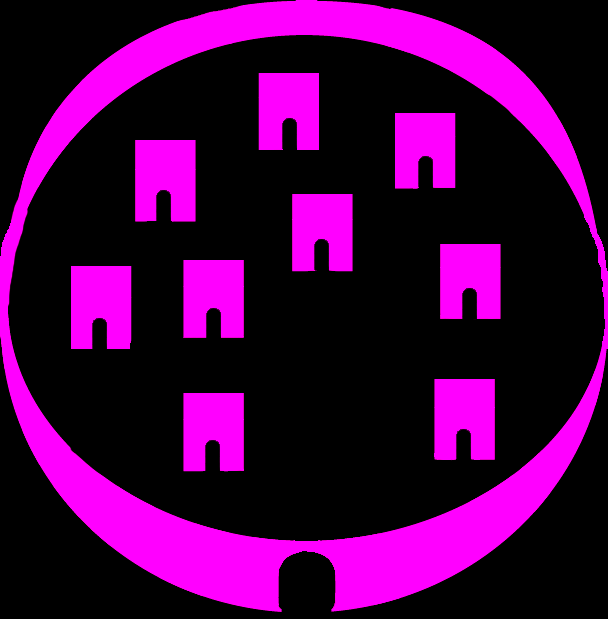
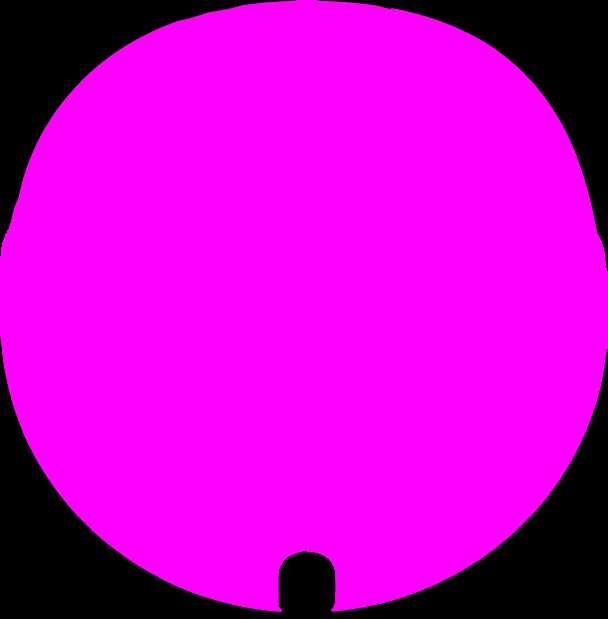
Nuevo prop Ciudad
+ Está presente en el new-world, en uno de los continentes. Es para
  probar una forma en la que se puede solventar el issue #102. No lo
  cierro todavía porque me parece que debería haber otras formas
  adicionales.
* Había subido los sprites de la ciudad y sus colisiones anteriormente
  sin darme cuenta. La actualización de la imagen de colisiones es
  porque el layer del héroe hace que no quede bien entrar en la ciudad.
  Además de que debería "entrar" mediante el botón de acción.
  SpriteSalida es temporalmente "accionable" a efectos de este cambio.
+ La salida en new-world.stage.json está vacía (no tine entrada) porque
  aún no hay un mapa destino para esa salida (que sería el interior de
  la ciudad).
* Nueva imagen de chunk grass-tile-monticulo_alto.png. Es similar al
  montículo que ya hay en otra parte del new-world, pero esté está
  al lado de la ciudad (for no reason) y es para probar cómo queda.

diff --git a/engine/scenery/props.py b/engine/scenery/props.py
@@ -1,10 +1,11 @@
 from engine.globs import Prop_Group, ModData, Tiempo, Tagged_Items, Mob_Group
-from engine.globs import GRUPO_OPERABLES, GRUPO_AGARRABLES, GRUPO_MOVIBLES
+from engine.globs import GRUPO_OPERABLES, GRUPO_AGARRABLES, GRUPO_MOVIBLES, COLOR_COLISION
 from engine.misc.resources import abrir_json, cargar_imagen
 from engine.globs.event_dispatcher import EventDispatcher
 from engine.UI.circularmenus import ContainerCircularMenu
+from pygame import Rect, mask as mask_module
 from .bases import Escenografia
-from pygame import Rect
+
 
 __all__ = ['Agarrable', 'Movible', 'Trepable', 'Operable', 'Destruible',
            'EstructuraCompuesta', 'Escenografia', 'Contenedor']
@@ -147,6 +148,8 @@ class Destruible(Escenografia):
 
 
 class EstructuraCompuesta(Escenografia):
+    accionable = True
+
     def __init__(self, parent, x, y, data):
         self.prop_type = 'EstructuraCompuesta'
         self.x, self.y = x, y
@@ -155,6 +158,7 @@ class EstructuraCompuesta(Escenografia):
         self.proyectaSombra = data.get('proyecta_sombra', False)
         self.props = self.build_props(parent, data, x, y)
         Prop_Group.add(self.nombre, self, self.grupo)
+        self.accion = 'entrar'
 
         super().__init__(parent, x, y, data=data, rect=self.rect)
 
@@ -175,13 +179,25 @@ class EstructuraCompuesta(Escenografia):
                 elif ruta.endswith('.png'):
                     imagen = ruta
 
-                if not self.proyectaSombra:
+                if nombre == 'colisiones':
+                    ruta = ModData.graphs + imagen
+                    self.mask = mask_module.from_threshold(cargar_imagen(ruta), COLOR_COLISION, [1, 1, 1, 255])
+                    parent.mask.draw(self.mask, [x, y])
+                    imagen = None
+
+                elif not self.proyectaSombra:
                     propdata['propiedades'].append('sin_sombra')
 
-                prop = new_prop(parent, dx + x, dy + y, z=z, nombre=nombre, img=imagen, data=propdata)
-                props.append(prop)
+                if imagen is not None:
+                    prop = new_prop(parent, dx + x, dy + y, z=z, nombre=nombre, img=imagen, data=propdata)
+                    props.append(prop)
 
         return props
+
+    def action(self, entity):
+        # acá debería iniciar una animación del mob trepando.
+        if self.salida is not None:
+            self.salida.trigger(entity, self.accion)
 
 
 class Contenedor(Operable):

diff --git a/engine/mapa/salida.py b/engine/mapa/salida.py
@@ -56,6 +56,8 @@ class Salida:
 class SpriteSalida(AzoeSprite):
     """Intented only for debugging"""
 
+    accionable = False
+
     def __init__(self, parent, nombre, x, y, w, h, color):
         img = Surface((w, h))
         img.fill(color)
